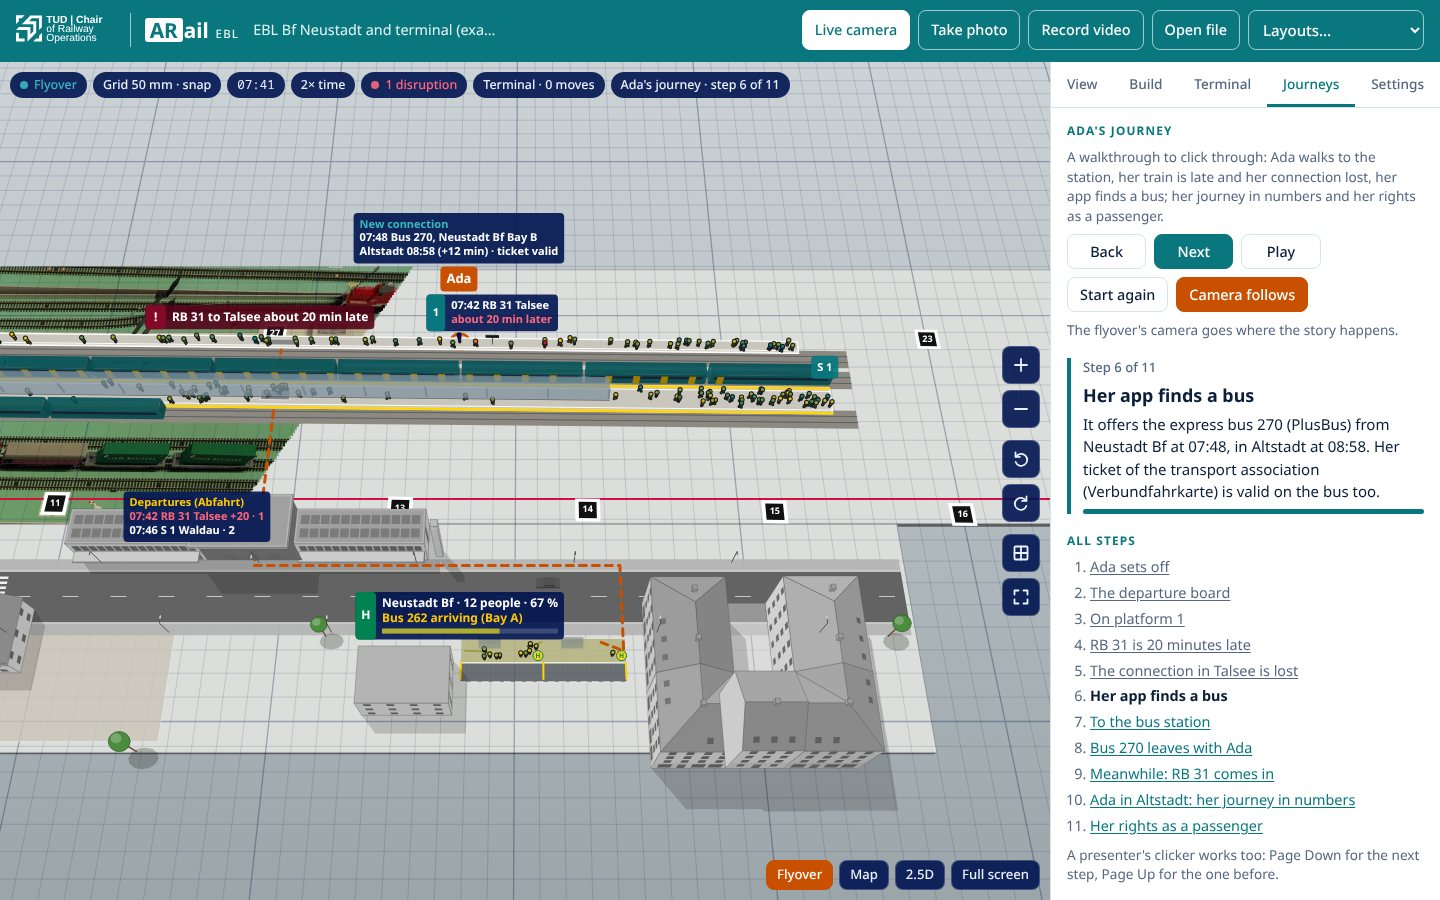
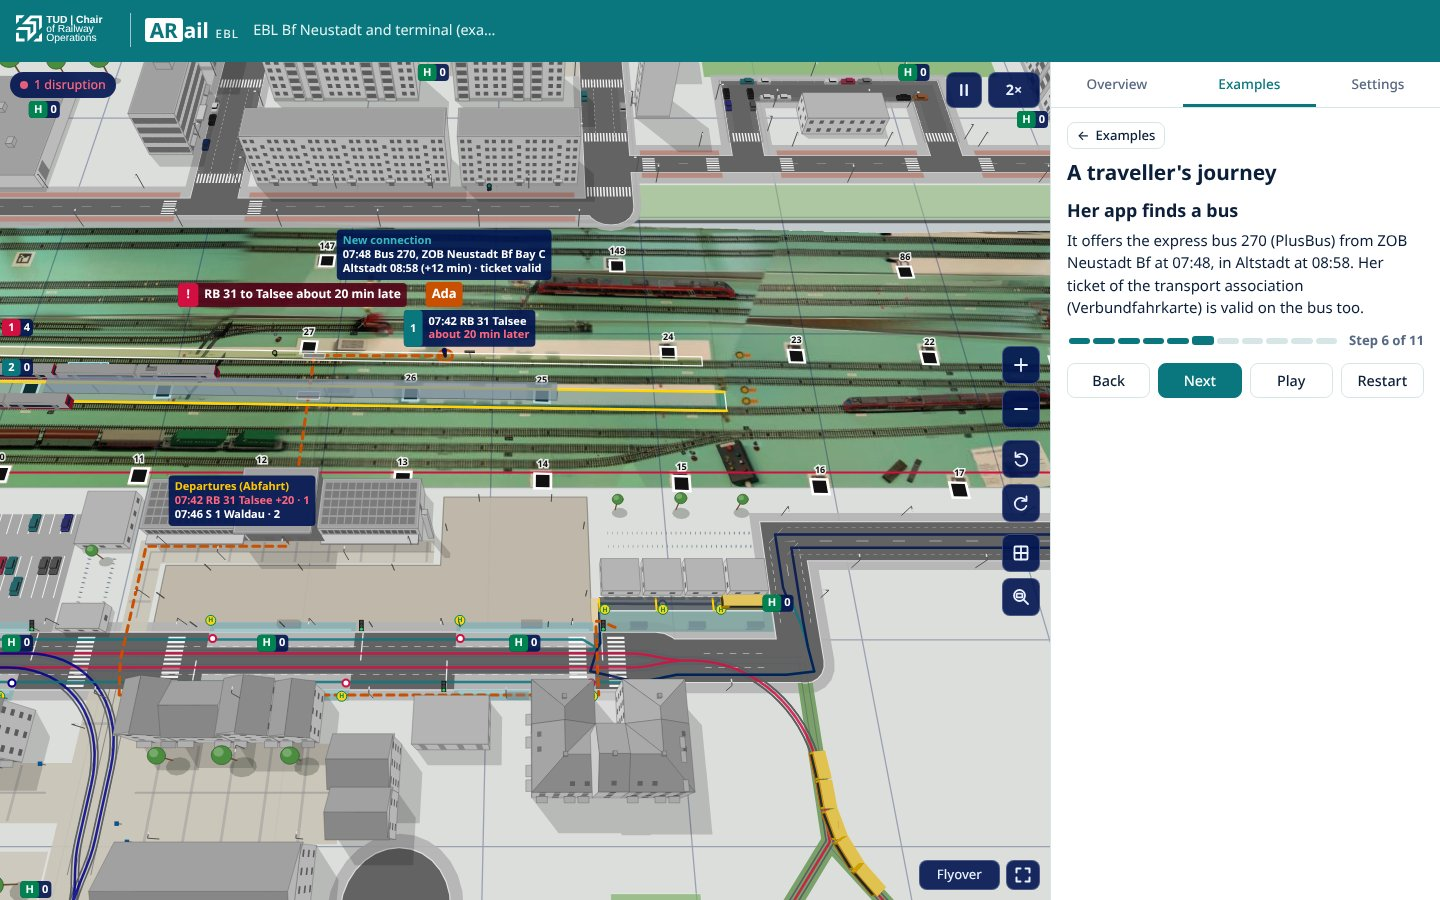
Review of #287: trees on the Kirchplatz, the ZOB reached on foot, the journeys picture
- The six Kirchplatz trees stand on the Kirchplatz again (one stood in the
  Rathaus); the Markt's trees stand on the Markt, out of the shallower Markt
  houses; the no-stopping sign is off the stalls.
- A footpath (Zugang ZOB) leads from Bahnhofstraße to the ZOB, which is
  turned round: its waiting area along the street, bay C at the path. Ada now
  walks there along the station front and Bahnhofstraße.
- The south row of stalls clears the tram stop's platform; the mini train is
  12 m and keeps the square's east gate free.
- Step 7 of the journeys story no longer says "along the street"; the
  site's journeys screenshot is retaken and its alt text says bay C of the
  ZOB and the way she walks.

Claude-Session: https://claude.ai/code/session_0174Gi62aokGmUgKjsmQ4VZR

diff --git a/web/index.html b/web/index.html
@@ -382,7 +382,7 @@ html[data-aud="practitioners"] [data-aud]:not([data-aud="practitioners"]) { disp
           </div>
         </article>
         <article class="app-card" id="app-journeys" aria-labelledby="t-journeys">
-          <div class="pic"><img src="assets/app-journeys.jpg" width="1440" height="900" loading="lazy" decoding="async" alt="The app in the flyover over Bf Neustadt with the Journeys tab at step 6 of the journeys story, Her app finds a bus: on platform 1 a warning says RB 31 to Talsee about 20 min late, the platform display says about 20 min later, and over Ada her phone offers bus 270 from bay B of the bus station; a dashed orange line leads from the platform through the underpass and along Bahnhofstraße to the bus station; the departure board at the station shows the RB 31 with +20."></div>
+          <div class="pic"><img src="assets/app-journeys.jpg" width="1440" height="900" loading="lazy" decoding="async" alt="The app in the flyover over Bf Neustadt with the Examples tab at step 6 of the journeys story, Her app finds a bus: on platform 1 a warning says RB 31 to Talsee about 20 min late, the platform display says about 20 min later, and over Ada her phone offers bus 270 from bay C of the ZOB Neustadt Bf; a dashed orange line leads from the platform through the underpass, along the station front and Bahnhofstraße to the ZOB on the Bahnhofsplatz, beside the empty square of the Christmas market; the departure board at the station shows the RB 31 with +20."></div>
           <div class="body">
             <h3 id="t-journeys">A connection is lost</h3>
             <p>Ada's train is 20 minutes late and her connection is gone. Her travel app finds a bus; she takes it while the late train comes in without her. Then her journey in numbers, and her rights.</p>

diff --git a/tests/js/journeys-story.test.js b/tests/js/journeys-story.test.js
@@ -140,7 +140,7 @@ test("her ways: walks over the sidewalks and through the underpass, the bus over
   assert.ok(near(p.walks.platform.points.at(-1), p.points.spot));
   const platform = s.world.stopAreas().find((a) => a.id === "platform-1"), [sp, tp] = platform.fromLayout(p.points.spot);
   assert.ok(sp > 0 && sp < platform.L && Math.abs(tp) < platform.W / 2 && tp * platform.docks[0].side < 0, "on the platform, away from the edge of her track");
-  // to the bus: back along the platform (seen), the underpass, then along the street to the bay
+  // to the bus: back along the platform (seen), the underpass, then over the square and the street to the bay
   const back = p.walks.bus;
   assert.ok(back.hidden[0][0] > 0, "she is seen walking back along the platform");
   assert.ok(near(back.points.at(-1), p.points.bay));

diff --git a/web/arail/journeys/story.js b/web/arail/journeys/story.js
@@ -145,7 +145,7 @@ export class JourneyStory extends Story {
     },
     {
       id: "walk", title: "To the bus station", seconds: 18,
-      text: "{Traveller} goes back through the underpass and along the street to {busStation}, {bay}: four minutes on foot.",
+      text: "{Traveller} goes back through the underpass and on to {busStation}, {bay}: four minutes on foot.",
     },
     {
       id: "bus", title: "Bus {busLine} leaves with {Traveller}", seconds: 32,

diff --git a/changes/bahnhofsvorplatz.changed.md b/changes/bahnhofsvorplatz.changed.md
@@ -1,3 +1,3 @@
-- **Bf Neustadt gets a Bahnhofsplatz** ([Streets and buses](docs/streets-and-buses.md), `web/layouts/ebl-neustadt.json`): Bahnhofstraße moves about 29 m away from the tracks (it swings away from Ringstraße in an S-curve of 26 m), and the station building is 13 m deep instead of 7 m. Between the station and the street lies the Bahnhofsplatz: the square of the Christmas market, the bus station (ZOB, three bays, lines 261, 262 and the express bus 270) with four low shops behind its bays and bike stands for Bike+Ride, the P+R, a Fahrradstation with bike stands and a kiosk. Everything on it is one floor with a flat roof, so the tracks stay in view. The front row of houses on Bahnhofstraße, the WBS 70 slab and the old bus station across the street make room for it; the Hotel am Bahnhof and the Altbau now stand across Bahnhofstraße. Ada's journey starts in Lange Straße 29.
+- **Bf Neustadt gets a Bahnhofsplatz** ([Streets and buses](docs/streets-and-buses.md), `web/layouts/ebl-neustadt.json`): Bahnhofstraße moves about 29 m away from the tracks (it swings away from Ringstraße in an S-curve of 26 m), and the station building is 13 m deep instead of 7 m. Between the station and the street lies the Bahnhofsplatz: the square of the Christmas market, the bus station (ZOB, three bays along the street, lines 261, 262 and the express bus 270, a footpath up to it from Bahnhofstraße) with four low shops behind its bus lane and bike stands for Bike+Ride, the P+R, a Fahrradstation with bike stands and a kiosk. Everything on it is one floor with a flat roof, so the tracks stay in view. The front row of houses on Bahnhofstraße, the WBS 70 slab and the old bus station across the street make room for it; the Hotel am Bahnhof and the Altbau now stand across Bahnhofstraße. Ada's journey starts in Lange Straße 29.
 - **The Striezelmarkt on the Bahnhofsplatz** ([The market square and the Striezelmarkt](docs/market.md)): its stalls stand in two rows along the station's front, the tree, the ferris wheel, the carousel, the mini train and the locomotive stall beside the station; its arches stand at the gates on Bahnhofstraße and at the station's doors.
 - **Tram line 2 turns Am Wall, no longer round St. Marien**: the church stands beside the track on its Kirchplatz, the track crosses Wallstraße (now one street, without its two turning circles) to a loop on a green of its own on the module Am Wall, where the Festplatz was. The Busbahnhof's loop lies further south, so that its neck keeps room for curves of 25 m.

diff --git a/docs/journeys.md b/docs/journeys.md
@@ -30,7 +30,7 @@ at 08:10 to Altstadt, there at 08:46.
 | 4. RB 31 is 20 minutes late | At 07:38 the display changes and the platform shows the delay (a level crossing fault near Bergheim); RB 31 will leave at 08:02. |
 | 5. The connection in Talsee is lost | Her app: RB 31 reaches Talsee at 08:24, the RE 3 leaves at 08:10; the next one is in Altstadt at 09:46, 60 minutes late, after the start of her exam. |
 | 6. Her app finds a bus | The express bus 270 (PlusBus) from the bus station Neustadt Bf at 07:48, in Altstadt at 08:58; her ticket of the transport association is valid on it. The way to the bus is drawn on the layout. |
-| 7. To the bus station | Back through the underpass and across the Bahnhofsplatz to bay C of the ZOB, the bus station on the Bahnhofsplatz. The bus station's bays are kept free for her bus from now on. |
+| 7. To the bus station | Back through the underpass, along the station front and Bahnhofstraße to bay C of the ZOB, the bus station on the Bahnhofsplatz. The bus station's bays are kept free for her bus from now on. |
 | 8. Bus 270 leaves with Ada | The bus comes up Schulstraße and along Am Stützpunkt and Bahnhofstraße into the bus station, stops at bay C, Ada and the other travellers get on, and it leaves the way it came. |
 | 9. Meanwhile: RB 31 comes in | At 08:02, 20 minutes late, RB 31 stops at track G1: the people waiting there get on, others get off. Whoever changes in Talsee now waits there an hour. |
 | 10. Ada in Altstadt: her journey in numbers | Her whole way on the layout (walked dashed, by bus solid) and a card: planned 07:42 → 08:46, real 07:48 → 08:58 by bus (12 minutes late), had she waited 08:02 → 09:46 (60 minutes late). |
